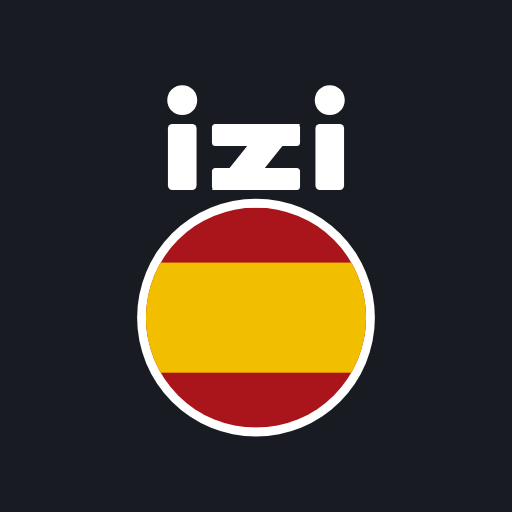
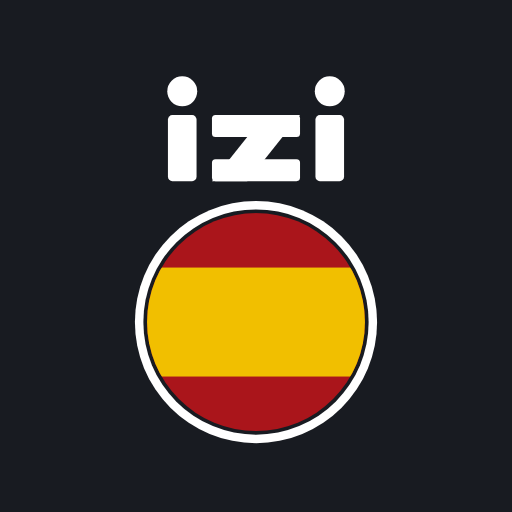
Единый фавикон на лендинг и кабинет, тёмный шов вокруг флага
Фавикон раньше был свой у каждого проекта и разный между лендингом и
кабинетом. Теперь один набор: favicon.svg + png 16/32/48 и
apple-touch-icon.png 180. На лендингах в apple-touch-icon стоял SVG —
iOS его не понимает и делал скриншот страницы.

Фавикон устроен не так, как иконка приложения: флаг во всю площадь, без
логотипа, круга и фона. На 16 px «izi» превращается в грязь, а кольцо
шириной 2 единицы при 32 px это 0.6 пикселя — оно не выживает при
растеризации.

В самой иконке добавлен тёмный шов между флагом и белым кольцом. Без него
белая нижняя треть сербского флага сливалась с кольцом и круг терял форму.
Шов, в свою очередь, сливается с чёрной полосой немецкого флага, но там
границу держит белое кольцо снаружи — так закрыты оба края палитры.

Changed region(s): [[0.25, 0.125, 0.75, 0.875]]

diff --git a/index.html b/index.html
@@ -8,6 +8,9 @@
   <meta name="apple-mobile-web-app-title" content="Испанский">
   <title>Испанский для Испании</title>
   <link rel="manifest" href="manifest.json">
+  <link rel="icon" type="image/svg+xml" href="favicon.svg">
+  <link rel="icon" type="image/png" sizes="32x32" href="favicon-32.png">
+  <link rel="icon" type="image/png" sizes="16x16" href="favicon-16.png">
   <link rel="apple-touch-icon" href="apple-touch-icon.png">
   <link rel="preconnect" href="https://fonts.googleapis.com">
   <link rel="preconnect" href="https://fonts.gstatic.com" crossorigin>
